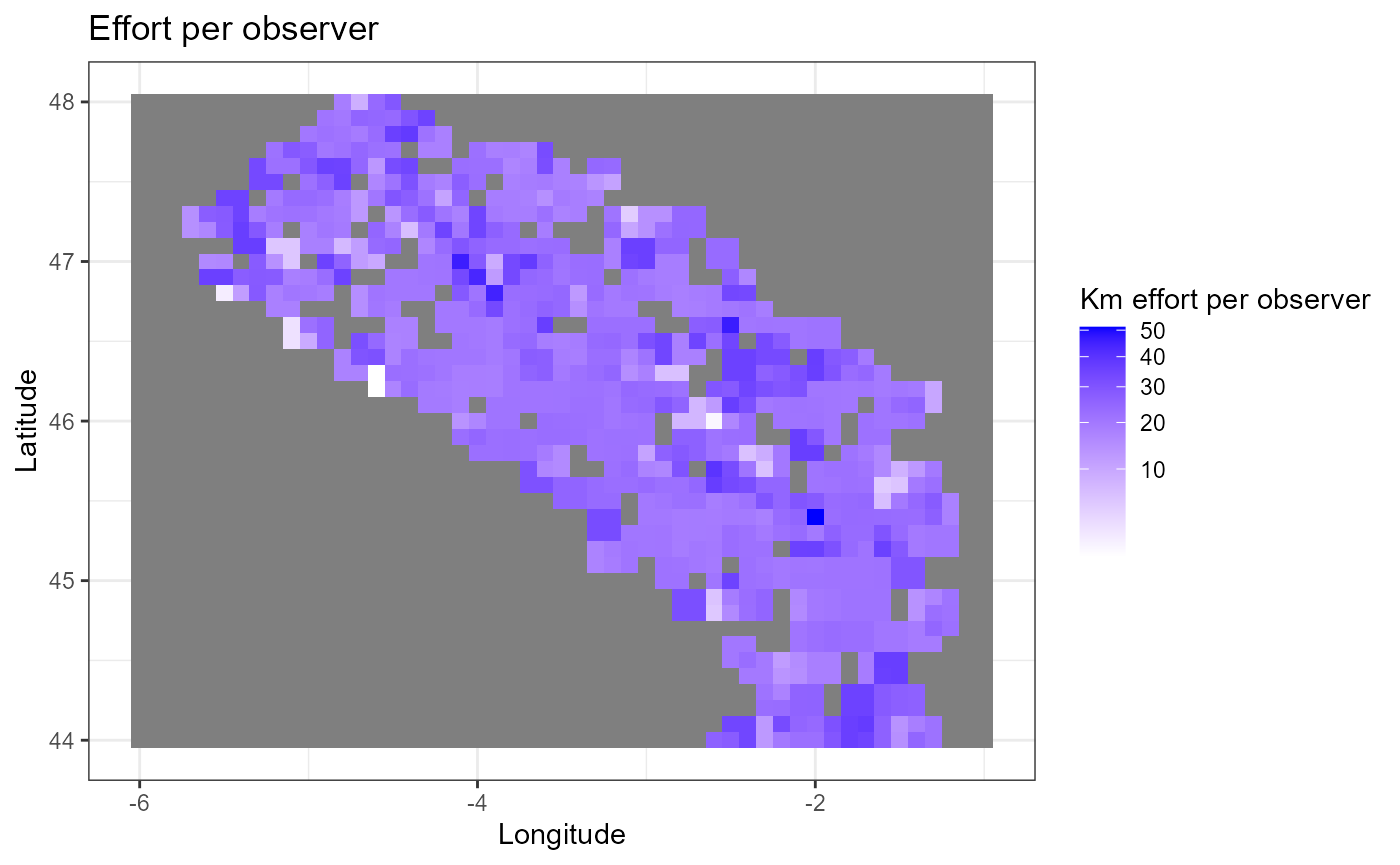
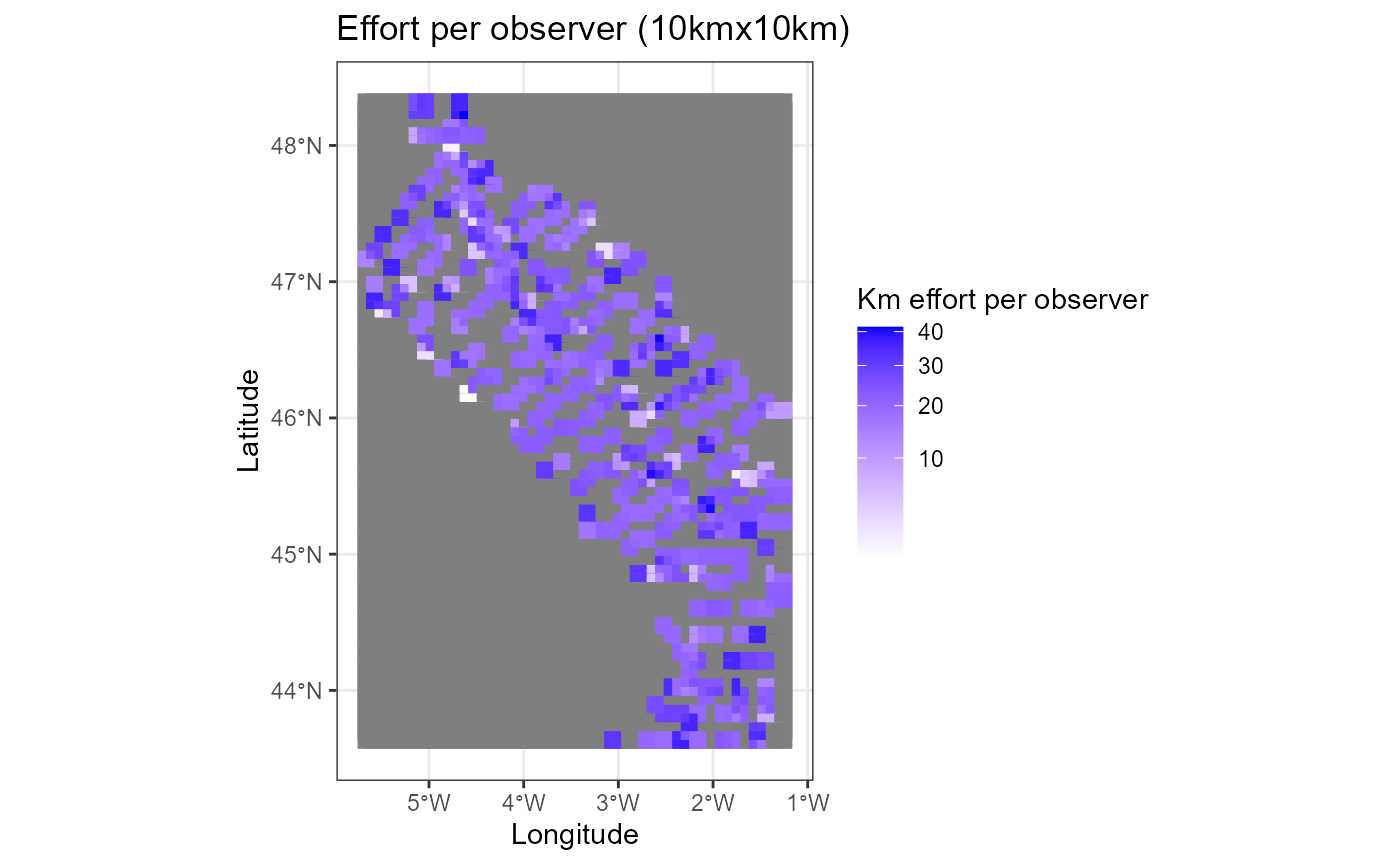
Add files via upload

diff --git a/articles/Processing_climatologies.html b/articles/Processing_climatologies.html
@@ -22,7 +22,7 @@
 
     <a class="navbar-brand me-2" href="../index.html">pelascope</a>
 
-    <small class="nav-text text-muted me-auto" data-bs-toggle="tooltip" data-bs-placement="bottom" title="">1.1</small>
+    <small class="nav-text text-muted me-auto" data-bs-toggle="tooltip" data-bs-placement="bottom" title="">1.2</small>
 
 
     <button class="navbar-toggler" type="button" data-bs-toggle="collapse" data-bs-target="#navbar" aria-controls="navbar" aria-expanded="false" aria-label="Toggle navigation">
@@ -97,7 +97,7 @@
 <span id="cb2-4"><a href="#cb2-4" aria-hidden="true" tabindex="-1"></a><span class="co"># copernicusmarine.login(username= &lt;"LOGIN"&gt; , password= &lt;"PASSWORD"&gt;) </span></span>
 <span id="cb2-5"><a href="#cb2-5" aria-hidden="true" tabindex="-1"></a></span>
 <span id="cb2-6"><a href="#cb2-6" aria-hidden="true" tabindex="-1"></a>copernicusmarine.subset(</span>
-<span id="cb2-7"><a href="#cb2-7" aria-hidden="true" tabindex="-1"></a>  dataset_id<span class="op">=</span><span class="st">"cmems_mod_ibi_phy_my_0.083deg-3D_P1D-m"</span>,</span>
+<span id="cb2-7"><a href="#cb2-7" aria-hidden="true" tabindex="-1"></a>  dataset_id<span class="op">=</span><span class="st">"cmems_mod_ibi_phy_anfc_0.027deg-3D_P1D-m"</span>,</span>
 <span id="cb2-8"><a href="#cb2-8" aria-hidden="true" tabindex="-1"></a>  variables<span class="op">=</span>[<span class="st">"bottomT"</span>, <span class="st">"mlotst"</span>, <span class="st">"so"</span>, <span class="st">"thetao"</span>, <span class="st">"uo"</span>, <span class="st">"vo"</span>, <span class="st">"zos"</span>],</span>
 <span id="cb2-9"><a href="#cb2-9" aria-hidden="true" tabindex="-1"></a>  minimum_longitude<span class="op">=-</span><span class="dv">6</span>,</span>
 <span id="cb2-10"><a href="#cb2-10" aria-hidden="true" tabindex="-1"></a>  maximum_longitude<span class="op">=</span><span class="dv">0</span>,</span>
@@ -110,29 +110,42 @@
 <span id="cb2-17"><a href="#cb2-17" aria-hidden="true" tabindex="-1"></a>  output_directory<span class="op">=</span> r.temp_file</span>
 <span id="cb2-18"><a href="#cb2-18" aria-hidden="true" tabindex="-1"></a>)</span>
 <span id="cb2-19"><a href="#cb2-19" aria-hidden="true" tabindex="-1"></a><span class="co">#&gt; </span></span>
-<span id="cb2-20"><a href="#cb2-20" aria-hidden="true" tabindex="-1"></a>  <span class="dv">0</span><span class="op">%|</span>          <span class="op">|</span> <span class="dv">0</span><span class="op">/</span><span class="dv">42</span> [<span class="dv">00</span>:<span class="dv">00</span><span class="op">&lt;</span>?, ?it<span class="op">/</span>s]</span>
-<span id="cb2-21"><a href="#cb2-21" aria-hidden="true" tabindex="-1"></a>  <span class="dv">2</span><span class="op">%|</span><span class="dv">2</span>         <span class="op">|</span> <span class="dv">1</span><span class="op">/</span><span class="dv">42</span> [<span class="dv">00</span>:<span class="dv">0</span><span class="er">2</span><span class="op">&lt;</span><span class="dv">0</span><span class="er">2</span>:<span class="dv">00</span>,  <span class="fl">2.93</span><span class="er">s</span><span class="op">/</span>it]</span>
-<span id="cb2-22"><a href="#cb2-22" aria-hidden="true" tabindex="-1"></a>  <span class="dv">7</span><span class="op">%|</span><span class="dv">7</span>         <span class="op">|</span> <span class="dv">3</span><span class="op">/</span><span class="dv">42</span> [<span class="dv">00</span>:<span class="dv">0</span><span class="er">3</span><span class="op">&lt;</span><span class="dv">00</span>:<span class="dv">34</span>,  <span class="fl">1.14</span><span class="er">it</span><span class="op">/</span>s]</span>
-<span id="cb2-23"><a href="#cb2-23" aria-hidden="true" tabindex="-1"></a> <span class="dv">12</span><span class="op">%|</span><span class="co">#1        | 5/42 [00:03&lt;00:17,  2.15it/s]</span></span>
-<span id="cb2-24"><a href="#cb2-24" aria-hidden="true" tabindex="-1"></a> <span class="dv">21</span><span class="op">%|</span><span class="co">##1       | 9/42 [00:04&lt;00:09,  3.45it/s]</span></span>
-<span id="cb2-25"><a href="#cb2-25" aria-hidden="true" tabindex="-1"></a> <span class="dv">31</span><span class="op">%|</span><span class="co">###       | 13/42 [00:08&lt;00:18,  1.56it/s]</span></span>
-<span id="cb2-26"><a href="#cb2-26" aria-hidden="true" tabindex="-1"></a> <span class="dv">36</span><span class="op">%|</span><span class="co">###5      | 15/42 [00:08&lt;00:13,  2.02it/s]</span></span>
-<span id="cb2-27"><a href="#cb2-27" aria-hidden="true" tabindex="-1"></a> <span class="dv">40</span><span class="op">%|</span><span class="co">####      | 17/42 [00:10&lt;00:15,  1.60it/s]</span></span>
-<span id="cb2-28"><a href="#cb2-28" aria-hidden="true" tabindex="-1"></a> <span class="dv">50</span><span class="op">%|</span><span class="co">#####     | 21/42 [00:10&lt;00:08,  2.42it/s]</span></span>
-<span id="cb2-29"><a href="#cb2-29" aria-hidden="true" tabindex="-1"></a> <span class="dv">60</span><span class="op">%|</span><span class="co">#####9    | 25/42 [00:11&lt;00:04,  3.46it/s]</span></span>
-<span id="cb2-30"><a href="#cb2-30" aria-hidden="true" tabindex="-1"></a> <span class="dv">64</span><span class="op">%|</span><span class="co">######4   | 27/42 [00:12&lt;00:06,  2.48it/s]</span></span>
-<span id="cb2-31"><a href="#cb2-31" aria-hidden="true" tabindex="-1"></a> <span class="dv">74</span><span class="op">%|</span><span class="co">#######3  | 31/42 [00:13&lt;00:03,  3.29it/s]</span></span>
-<span id="cb2-32"><a href="#cb2-32" aria-hidden="true" tabindex="-1"></a> <span class="dv">83</span><span class="op">%|</span><span class="co">########3 | 35/42 [00:14&lt;00:02,  3.04it/s]</span></span>
-<span id="cb2-33"><a href="#cb2-33" aria-hidden="true" tabindex="-1"></a> <span class="dv">93</span><span class="op">%|</span><span class="co">#########2| 39/42 [00:15&lt;00:00,  4.11it/s]</span></span>
-<span id="cb2-34"><a href="#cb2-34" aria-hidden="true" tabindex="-1"></a><span class="dv">100</span><span class="op">%|</span><span class="co">##########| 42/42 [00:15&lt;00:00,  2.75it/s]</span></span>
-<span id="cb2-35"><a href="#cb2-35" aria-hidden="true" tabindex="-1"></a><span class="co">#&gt; ResponseSubset(file_path=WindowsPath('C:/Users/gchero/AppData/Local/Temp/Rtmp6xly2c/cmems_mod_ibi_phy_my_0.083deg-3D_P1D-m_multi-vars_5.92W-0.00W_43.00N-49.00N_0.51m_2022-04-01-2023-05-31.nc'), output_directory=WindowsPath('C:/Users/gchero/AppData/Local/Temp/Rtmp6xly2c'), filename='cmems_mod_ibi_phy_my_0.083deg-3D_P1D-m_multi-vars_5.92W-0.00W_43.00N-49.00N_0.51m_2022-04-01-2023-05-31.nc', file_size=29.924053435114505, data_transfer_size=820.294351145038, variables=['bottomT', 'mlotst', 'so', 'thetao', 'uo', 'vo', 'zos'], coordinates_extent=[GeographicalExtent(minimum=-5.9166669845581055, maximum=-7.599999776175537e-07, unit='degrees_east', coordinate_id='longitude'), GeographicalExtent(minimum=43.0, maximum=49.0, unit='degrees_north', coordinate_id='latitude'), TimeExtent(minimum='2022-04-01T00:00:00+00:00', maximum='2023-05-31T00:00:00+00:00', unit='iso8601', coordinate_id='time'), GeographicalExtent(minimum=0.5057600140571594, maximum=0.5057600140571594, unit='m', coordinate_id='depth')], status='000', message='The request was successful.', file_status='DOWNLOADED')</span></span></code></pre></div>
+<span id="cb2-20"><a href="#cb2-20" aria-hidden="true" tabindex="-1"></a>  <span class="dv">0</span><span class="op">%|</span>          <span class="op">|</span> <span class="dv">0</span><span class="op">/</span><span class="dv">70</span> [<span class="dv">00</span>:<span class="dv">00</span><span class="op">&lt;</span>?, ?it<span class="op">/</span>s]</span>
+<span id="cb2-21"><a href="#cb2-21" aria-hidden="true" tabindex="-1"></a>  <span class="dv">1</span><span class="op">%|</span><span class="dv">1</span>         <span class="op">|</span> <span class="dv">1</span><span class="op">/</span><span class="dv">70</span> [<span class="dv">00</span>:<span class="dv">0</span><span class="er">1</span><span class="op">&lt;</span><span class="dv">0</span><span class="er">1</span>:<span class="dv">36</span>,  <span class="fl">1.40</span><span class="er">s</span><span class="op">/</span>it]</span>
+<span id="cb2-22"><a href="#cb2-22" aria-hidden="true" tabindex="-1"></a>  <span class="dv">4</span><span class="op">%|</span><span class="dv">4</span>         <span class="op">|</span> <span class="dv">3</span><span class="op">/</span><span class="dv">70</span> [<span class="dv">00</span>:<span class="dv">0</span><span class="er">1</span><span class="op">&lt;</span><span class="dv">00</span>:<span class="dv">27</span>,  <span class="fl">2.44</span><span class="er">it</span><span class="op">/</span>s]</span>
+<span id="cb2-23"><a href="#cb2-23" aria-hidden="true" tabindex="-1"></a>  <span class="dv">7</span><span class="op">%|</span><span class="dv">7</span>         <span class="op">|</span> <span class="dv">5</span><span class="op">/</span><span class="dv">70</span> [<span class="dv">00</span>:<span class="dv">0</span><span class="er">1</span><span class="op">&lt;</span><span class="dv">00</span>:<span class="dv">20</span>,  <span class="fl">3.14</span><span class="er">it</span><span class="op">/</span>s]</span>
+<span id="cb2-24"><a href="#cb2-24" aria-hidden="true" tabindex="-1"></a> <span class="dv">16</span><span class="op">%|</span><span class="co">#5        | 11/70 [00:03&lt;00:12,  4.56it/s]</span></span>
+<span id="cb2-25"><a href="#cb2-25" aria-hidden="true" tabindex="-1"></a> <span class="dv">19</span><span class="op">%|</span><span class="co">#8        | 13/70 [00:05&lt;00:24,  2.30it/s]</span></span>
+<span id="cb2-26"><a href="#cb2-26" aria-hidden="true" tabindex="-1"></a> <span class="dv">21</span><span class="op">%|</span><span class="co">##1       | 15/70 [00:05&lt;00:18,  2.99it/s]</span></span>
+<span id="cb2-27"><a href="#cb2-27" aria-hidden="true" tabindex="-1"></a> <span class="dv">24</span><span class="op">%|</span><span class="co">##4       | 17/70 [00:05&lt;00:17,  3.10it/s]</span></span>
+<span id="cb2-28"><a href="#cb2-28" aria-hidden="true" tabindex="-1"></a> <span class="dv">30</span><span class="op">%|</span><span class="co">###       | 21/70 [00:08&lt;00:23,  2.05it/s]</span></span>
+<span id="cb2-29"><a href="#cb2-29" aria-hidden="true" tabindex="-1"></a> <span class="dv">33</span><span class="op">%|</span><span class="co">###2      | 23/70 [00:10&lt;00:26,  1.76it/s]</span></span>
+<span id="cb2-30"><a href="#cb2-30" aria-hidden="true" tabindex="-1"></a> <span class="dv">36</span><span class="op">%|</span><span class="co">###5      | 25/70 [00:10&lt;00:19,  2.27it/s]</span></span>
+<span id="cb2-31"><a href="#cb2-31" aria-hidden="true" tabindex="-1"></a> <span class="dv">39</span><span class="op">%|</span><span class="co">###8      | 27/70 [00:11&lt;00:17,  2.48it/s]</span></span>
+<span id="cb2-32"><a href="#cb2-32" aria-hidden="true" tabindex="-1"></a> <span class="dv">41</span><span class="op">%|</span><span class="co">####1     | 29/70 [00:11&lt;00:14,  2.83it/s]</span></span>
+<span id="cb2-33"><a href="#cb2-33" aria-hidden="true" tabindex="-1"></a> <span class="dv">44</span><span class="op">%|</span><span class="co">####4     | 31/70 [00:11&lt;00:10,  3.72it/s]</span></span>
+<span id="cb2-34"><a href="#cb2-34" aria-hidden="true" tabindex="-1"></a> <span class="dv">47</span><span class="op">%|</span><span class="co">####7     | 33/70 [00:15&lt;00:25,  1.46it/s]</span></span>
+<span id="cb2-35"><a href="#cb2-35" aria-hidden="true" tabindex="-1"></a> <span class="dv">50</span><span class="op">%|</span><span class="co">#####     | 35/70 [00:16&lt;00:22,  1.54it/s]</span></span>
+<span id="cb2-36"><a href="#cb2-36" aria-hidden="true" tabindex="-1"></a> <span class="dv">53</span><span class="op">%|</span><span class="co">#####2    | 37/70 [00:16&lt;00:17,  1.90it/s]</span></span>
+<span id="cb2-37"><a href="#cb2-37" aria-hidden="true" tabindex="-1"></a> <span class="dv">59</span><span class="op">%|</span><span class="co">#####8    | 41/70 [00:17&lt;00:11,  2.55it/s]</span></span>
+<span id="cb2-38"><a href="#cb2-38" aria-hidden="true" tabindex="-1"></a> <span class="dv">61</span><span class="op">%|</span><span class="co">######1   | 43/70 [00:18&lt;00:12,  2.14it/s]</span></span>
+<span id="cb2-39"><a href="#cb2-39" aria-hidden="true" tabindex="-1"></a> <span class="dv">67</span><span class="op">%|</span><span class="co">######7   | 47/70 [00:19&lt;00:07,  2.95it/s]</span></span>
+<span id="cb2-40"><a href="#cb2-40" aria-hidden="true" tabindex="-1"></a> <span class="dv">70</span><span class="op">%|</span><span class="co">#######   | 49/70 [00:20&lt;00:08,  2.57it/s]</span></span>
+<span id="cb2-41"><a href="#cb2-41" aria-hidden="true" tabindex="-1"></a> <span class="dv">73</span><span class="op">%|</span><span class="co">#######2  | 51/70 [00:20&lt;00:06,  3.12it/s]</span></span>
+<span id="cb2-42"><a href="#cb2-42" aria-hidden="true" tabindex="-1"></a> <span class="dv">76</span><span class="op">%|</span><span class="co">#######5  | 53/70 [00:21&lt;00:04,  3.90it/s]</span></span>
+<span id="cb2-43"><a href="#cb2-43" aria-hidden="true" tabindex="-1"></a> <span class="dv">79</span><span class="op">%|</span><span class="co">#######8  | 55/70 [00:21&lt;00:03,  4.86it/s]</span></span>
+<span id="cb2-44"><a href="#cb2-44" aria-hidden="true" tabindex="-1"></a> <span class="dv">84</span><span class="op">%|</span><span class="co">########4 | 59/70 [00:23&lt;00:03,  3.11it/s]</span></span>
+<span id="cb2-45"><a href="#cb2-45" aria-hidden="true" tabindex="-1"></a> <span class="dv">93</span><span class="op">%|</span><span class="co">#########2| 65/70 [00:25&lt;00:01,  2.85it/s]</span></span>
+<span id="cb2-46"><a href="#cb2-46" aria-hidden="true" tabindex="-1"></a> <span class="dv">96</span><span class="op">%|</span><span class="co">#########5| 67/70 [00:28&lt;00:01,  1.82it/s]</span></span>
+<span id="cb2-47"><a href="#cb2-47" aria-hidden="true" tabindex="-1"></a><span class="dv">100</span><span class="op">%|</span><span class="co">##########| 70/70 [00:28&lt;00:00,  2.47it/s]</span></span>
+<span id="cb2-48"><a href="#cb2-48" aria-hidden="true" tabindex="-1"></a><span class="co">#&gt; ResponseSubset(file_path=WindowsPath('C:/Users/gchero/AppData/Local/Temp/RtmpKQL5gk/cmems_mod_ibi_phy_anfc_0.027deg-3D_P1D-m_multi-vars_6.00W-0.03W_43.03N-49.00N_0.49m_2022-11-23-2023-05-31.nc'), output_directory=WindowsPath('C:/Users/gchero/AppData/Local/Temp/RtmpKQL5gk'), filename='cmems_mod_ibi_phy_anfc_0.027deg-3D_P1D-m_multi-vars_6.00W-0.03W_43.03N-49.00N_0.49m_2022-11-23-2023-05-31.nc', file_size=118.43376335877863, data_transfer_size=759.4171603053434, variables=['bottomT', 'mlotst', 'so', 'thetao', 'uo', 'vo', 'zos'], coordinates_extent=[GeographicalExtent(minimum=-5.999106370000001, maximum=-0.026700920000000905, unit='degrees_east', coordinate_id='longitude'), GeographicalExtent(minimum=43.02698567, maximum=48.99939112, unit='degrees_north', coordinate_id='latitude'), TimeExtent(minimum='2022-11-23T00:00:00+00:00', maximum='2023-05-31T00:00:00+00:00', unit='iso8601', coordinate_id='time'), GeographicalExtent(minimum=0.4940253794193268, maximum=0.4940253794193268, unit='m', coordinate_id='depth')], status='000', message='The request was successful.', file_status='DOWNLOADED')</span></span></code></pre></div>
 </div>
 <p>The function import a ‘.nc’ files with all the climatologies downloaded in the area for the complete period.</p>
 <div class="cell">
 <div class="sourceCode cell-code" id="cb3"><pre class="downlit sourceCode r">
 <code class="sourceCode R"><span><span class="va">file_nc</span> <span class="op">&lt;-</span> <span class="fu"><a href="https://rdrr.io/r/base/list.files.html" class="external-link">list.files</a></span><span class="op">(</span><span class="va">temp_file</span>, full.names <span class="op">=</span> <span class="cn">TRUE</span>, pattern<span class="op">=</span><span class="st">".nc"</span><span class="op">)</span></span>
 <span><span class="va">file_nc</span></span>
-<span><span class="co">#&gt; [1] "C:\\Users\\gchero\\AppData\\Local\\Temp\\Rtmp6xly2c/cmems_mod_ibi_phy_my_0.083deg-3D_P1D-m_multi-vars_5.92W-0.00W_43.00N-49.00N_0.51m_2022-04-01-2023-05-31.nc"</span></span></code></pre></div>
+<span><span class="co">#&gt; [1] "C:\\Users\\gchero\\AppData\\Local\\Temp\\RtmpKQL5gk/cmems_mod_ibi_phy_anfc_0.027deg-3D_P1D-m_multi-vars_6.00W-0.03W_43.03N-49.00N_0.49m_2022-11-23-2023-05-31.nc"</span></span></code></pre></div>
 </div>
 </section><section class="section level2"><h2 id="manipulate-climatologies">2 - Manipulate climatologies<a class="anchor" aria-label="anchor" href="#manipulate-climatologies"></a>
 </h2>
@@ -282,14 +295,14 @@
 <span></span>
 <span><span class="va">rast_final</span></span>
 <span><span class="co">#&gt; class       : SpatRaster </span></span>
-<span><span class="co">#&gt; size        : 73, 72, 12  (nrow, ncol, nlyr)</span></span>
-<span><span class="co">#&gt; resolution  : 0.08333333, 0.08333333  (x, y)</span></span>
-<span><span class="co">#&gt; extent      : -5.958334, 0.0416659, 42.95833, 49.04167  (xmin, xmax, ymin, ymax)</span></span>
+<span><span class="co">#&gt; size        : 216, 216, 12  (nrow, ncol, nlyr)</span></span>
+<span><span class="co">#&gt; resolution  : 0.02777863, 0.02777863  (x, y)</span></span>
+<span><span class="co">#&gt; extent      : -6.012996, -0.01281161, 43.0131, 49.01328  (xmin, xmax, ymin, ymax)</span></span>
 <span><span class="co">#&gt; coord. ref. : lon/lat WGS 84 (CRS84) (OGC:CRS84) </span></span>
 <span><span class="co">#&gt; source(s)   : memory</span></span>
-<span><span class="co">#&gt; names       : BST_mean,      BST_sd,  MLD_mean,      MLD_sd, Salin~_mean,  Salinity_sd, ... </span></span>
-<span><span class="co">#&gt; min values  : 10.92171, 0.006772811,  4.551583,  0.03094085,  0.09632164, 0.0008939617, ... </span></span>
-<span><span class="co">#&gt; max values  : 19.57945, 1.050573744, 72.248358, 32.60082145, 35.82961366, 3.4587316578, ... </span></span>
+<span><span class="co">#&gt; names       : BST_mean,     BST_sd,  MLD_mean,      MLD_sd, Salin~_mean, Salinity_sd, ... </span></span>
+<span><span class="co">#&gt; min values  : 10.98626, 0.00958222,  4.541906,  0.04205937,  0.08774099, 0.000395079, ... </span></span>
+<span><span class="co">#&gt; max values  : 18.51610, 1.30521572, 85.219326, 33.82404881, 35.62377494, 3.878500275, ... </span></span>
 <span><span class="co">#&gt; time (days) : 2023-05-01</span></span></code></pre></div>
 </div>
 </section><section class="section level2"><h2 id="check-output">3 - Check output<a class="anchor" aria-label="anchor" href="#check-output"></a>
@@ -298,8 +311,8 @@
 <div class="sourceCode cell-code" id="cb6"><pre class="downlit sourceCode r">
 <code class="sourceCode R"><span><span class="va">file_tif</span> <span class="op">&lt;-</span> <span class="fu"><a href="https://rdrr.io/r/base/list.files.html" class="external-link">list.files</a></span><span class="op">(</span><span class="va">temp_file</span>, pattern <span class="op">=</span> <span class="st">'.tif'</span>, full.names <span class="op">=</span> <span class="cn">TRUE</span><span class="op">)</span></span>
 <span><span class="va">file_tif</span></span>
-<span><span class="co">#&gt; [1] "C:\\Users\\gchero\\AppData\\Local\\Temp\\Rtmp6xly2c/2023_April.tif"</span></span>
-<span><span class="co">#&gt; [2] "C:\\Users\\gchero\\AppData\\Local\\Temp\\Rtmp6xly2c/2023_May.tif"</span></span></code></pre></div>
+<span><span class="co">#&gt; [1] "C:\\Users\\gchero\\AppData\\Local\\Temp\\RtmpKQL5gk/2023_April.tif"</span></span>
+<span><span class="co">#&gt; [2] "C:\\Users\\gchero\\AppData\\Local\\Temp\\RtmpKQL5gk/2023_May.tif"</span></span></code></pre></div>
 </div>
 <div class="cell">
 <div class="sourceCode cell-code" id="cb7"><pre class="downlit sourceCode r">
@@ -460,9 +473,9 @@
 <div class="sourceCode cell-code" id="cb14"><pre class="downlit sourceCode r">
 <code class="sourceCode R"><span><span class="fu"><a href="https://rdrr.io/r/base/unlink.html" class="external-link">unlink</a></span><span class="op">(</span><span class="va">temp_file</span>, recursive <span class="op">=</span> <span class="cn">TRUE</span>, force <span class="op">=</span> <span class="cn">TRUE</span><span class="op">)</span></span>
 <span><span class="fu"><a href="https://rdrr.io/r/base/list.files.html" class="external-link">list.files</a></span><span class="op">(</span><span class="va">temp_file</span><span class="op">)</span></span>
-<span><span class="co">#&gt; [1] "cmems_mod_ibi_phy_my_0.083deg-3D_P1D-m_multi-vars_5.92W-0.00W_43.00N-49.00N_0.51m_2022-04-01-2023-05-31.nc"</span></span>
-<span><span class="co">#&gt; [2] "file245846cc34c8"                                                                                          </span></span>
-<span><span class="co">#&gt; [3] "Rf245836c97098"</span></span></code></pre></div>
+<span><span class="co">#&gt; [1] "cmems_mod_ibi_phy_anfc_0.027deg-3D_P1D-m_multi-vars_6.00W-0.03W_43.03N-49.00N_0.49m_2022-11-23-2023-05-31.nc"</span></span>
+<span><span class="co">#&gt; [2] "fileabc70bd36fa"                                                                                             </span></span>
+<span><span class="co">#&gt; [3] "Rfabc6ca36438"</span></span></code></pre></div>
 </div>
 </section><script id="quarto-html-after-body" type="application/javascript">
 window.document.addEventListener("DOMContentLoaded", function (event) {

diff --git a/articles/effort-preparation.html b/articles/effort-preparation.html
@@ -20,7 +20,7 @@
 
     <a class="navbar-brand me-2" href="../index.html">pelascope</a>
 
-    <small class="nav-text text-muted me-auto" data-bs-toggle="tooltip" data-bs-placement="bottom" title="">1.1</small>
+    <small class="nav-text text-muted me-auto" data-bs-toggle="tooltip" data-bs-placement="bottom" title="">1.2</small>
 
 
     <button class="navbar-toggler" type="button" data-bs-toggle="collapse" data-bs-target="#navbar" aria-controls="navbar" aria-expanded="false" aria-label="Toggle navigation">
@@ -2596,44 +2596,44 @@
 <p><img src="effort-preparation_files/figure-html/example-descriptive_stats_effort-3.png" width="700"></p>
 <pre><code><span><span class="co">#&gt; </span></span>
 <span><span class="co">#&gt; $gpkg_general_blocking</span></span>
-<span><span class="co">#&gt; Simple feature collection with 2091 features and 1 field</span></span>
-<span><span class="co">#&gt; Geometry type: POINT</span></span>
+<span><span class="co">#&gt; Simple feature collection with 3800 features and 1 field</span></span>
+<span><span class="co">#&gt; Geometry type: POLYGON</span></span>
 <span><span class="co">#&gt; Dimension:     XY</span></span>
-<span><span class="co">#&gt; Bounding box:  xmin: -6 ymin: 44 xmax: -1 ymax: 48</span></span>
+<span><span class="co">#&gt; Bounding box:  xmin: -5.749218 ymin: 43.57561 xmax: -1.16781 ymax: 48.37816</span></span>
 <span><span class="co">#&gt; Geodetic CRS:  WGS 84</span></span>
 <span><span class="co">#&gt; First 10 features:</span></span>
-<span><span class="co">#&gt;    Mean_value        geometry</span></span>
-<span><span class="co">#&gt; 1          NA   POINT (-6 44)</span></span>
-<span><span class="co">#&gt; 2          NA POINT (-5.9 44)</span></span>
-<span><span class="co">#&gt; 3          NA POINT (-5.8 44)</span></span>
-<span><span class="co">#&gt; 4          NA POINT (-5.7 44)</span></span>
-<span><span class="co">#&gt; 5          NA POINT (-5.6 44)</span></span>
-<span><span class="co">#&gt; 6          NA POINT (-5.5 44)</span></span>
-<span><span class="co">#&gt; 7          NA POINT (-5.4 44)</span></span>
-<span><span class="co">#&gt; 8          NA POINT (-5.3 44)</span></span>
-<span><span class="co">#&gt; 9          NA POINT (-5.2 44)</span></span>
-<span><span class="co">#&gt; 10         NA POINT (-5.1 44)</span></span>
+<span><span class="co">#&gt;    Mean_value                       geometry</span></span>
+<span><span class="co">#&gt; 1          NA POLYGON ((-5.569555 43.7056...</span></span>
+<span><span class="co">#&gt; 2          NA POLYGON ((-5.479723 43.7056...</span></span>
+<span><span class="co">#&gt; 3          NA POLYGON ((-5.389892 43.7056...</span></span>
+<span><span class="co">#&gt; 4          NA POLYGON ((-5.30006 43.70563...</span></span>
+<span><span class="co">#&gt; 5          NA POLYGON ((-5.210229 43.7056...</span></span>
+<span><span class="co">#&gt; 6          NA POLYGON ((-5.120397 43.7056...</span></span>
+<span><span class="co">#&gt; 7          NA POLYGON ((-5.030566 43.7056...</span></span>
+<span><span class="co">#&gt; 8          NA POLYGON ((-4.940734 43.7056...</span></span>
+<span><span class="co">#&gt; 9          NA POLYGON ((-4.850903 43.7056...</span></span>
+<span><span class="co">#&gt; 10         NA POLYGON ((-4.761071 43.7056...</span></span>
 <span><span class="co">#&gt; </span></span>
 <span><span class="co">#&gt; $blocking_per_species</span></span>
 <span><span class="co">#&gt; $blocking_per_species$ind.DELDEL</span></span>
 <span><span class="co">#&gt; $blocking_per_species$ind.DELDEL$data</span></span>
-<span><span class="co">#&gt; Simple feature collection with 2091 features and 1 field</span></span>
-<span><span class="co">#&gt; Geometry type: POINT</span></span>
+<span><span class="co">#&gt; Simple feature collection with 3800 features and 1 field</span></span>
+<span><span class="co">#&gt; Geometry type: POLYGON</span></span>
 <span><span class="co">#&gt; Dimension:     XY</span></span>
-<span><span class="co">#&gt; Bounding box:  xmin: -6 ymin: 44 xmax: -1 ymax: 48</span></span>
+<span><span class="co">#&gt; Bounding box:  xmin: -5.749218 ymin: 43.57561 xmax: -1.16781 ymax: 48.37816</span></span>
 <span><span class="co">#&gt; Geodetic CRS:  WGS 84</span></span>
 <span><span class="co">#&gt; First 10 features:</span></span>
-<span><span class="co">#&gt;    Mean_value        geometry</span></span>
-<span><span class="co">#&gt; 1          NA   POINT (-6 44)</span></span>
-<span><span class="co">#&gt; 2          NA POINT (-5.9 44)</span></span>
-<span><span class="co">#&gt; 3          NA POINT (-5.8 44)</span></span>
-<span><span class="co">#&gt; 4          NA POINT (-5.7 44)</span></span>
-<span><span class="co">#&gt; 5          NA POINT (-5.6 44)</span></span>
-<span><span class="co">#&gt; 6          NA POINT (-5.5 44)</span></span>
-<span><span class="co">#&gt; 7          NA POINT (-5.4 44)</span></span>
-<span><span class="co">#&gt; 8          NA POINT (-5.3 44)</span></span>
-<span><span class="co">#&gt; 9          NA POINT (-5.2 44)</span></span>
-<span><span class="co">#&gt; 10         NA POINT (-5.1 44)</span></span>
+<span><span class="co">#&gt;    Mean_value                       geometry</span></span>
+<span><span class="co">#&gt; 1          NA POLYGON ((-5.569555 43.7056...</span></span>
+<span><span class="co">#&gt; 2          NA POLYGON ((-5.479723 43.7056...</span></span>
+<span><span class="co">#&gt; 3          NA POLYGON ((-5.389892 43.7056...</span></span>
+<span><span class="co">#&gt; 4          NA POLYGON ((-5.30006 43.70563...</span></span>
+<span><span class="co">#&gt; 5          NA POLYGON ((-5.210229 43.7056...</span></span>
+<span><span class="co">#&gt; 6          NA POLYGON ((-5.120397 43.7056...</span></span>
+<span><span class="co">#&gt; 7          NA POLYGON ((-5.030566 43.7056...</span></span>
+<span><span class="co">#&gt; 8          NA POLYGON ((-4.940734 43.7056...</span></span>
+<span><span class="co">#&gt; 9          NA POLYGON ((-4.850903 43.7056...</span></span>
+<span><span class="co">#&gt; 10         NA POLYGON ((-4.761071 43.7056...</span></span>
 <span><span class="co">#&gt; </span></span>
 <span><span class="co">#&gt; $blocking_per_species$ind.DELDEL$map</span></span></code></pre>
 <p><img src="effort-preparation_files/figure-html/example-descriptive_stats_effort-4.png" width="700"></p>
@@ -2886,44 +2886,44 @@
 <p><img src="effort-preparation_files/figure-html/example-descriptive_stats_effort-7.png" width="700"></p>
 <pre><code><span><span class="co">#&gt; </span></span>
 <span><span class="co">#&gt; $gpkg_general_blocking</span></span>
-<span><span class="co">#&gt; Simple feature collection with 2091 features and 1 field</span></span>
-<span><span class="co">#&gt; Geometry type: POINT</span></span>
+<span><span class="co">#&gt; Simple feature collection with 3800 features and 1 field</span></span>
+<span><span class="co">#&gt; Geometry type: POLYGON</span></span>
 <span><span class="co">#&gt; Dimension:     XY</span></span>
-<span><span class="co">#&gt; Bounding box:  xmin: -6 ymin: 44 xmax: -1 ymax: 48</span></span>
+<span><span class="co">#&gt; Bounding box:  xmin: -5.749218 ymin: 43.57561 xmax: -1.16781 ymax: 48.37816</span></span>
 <span><span class="co">#&gt; Geodetic CRS:  WGS 84</span></span>
 <span><span class="co">#&gt; First 10 features:</span></span>
-<span><span class="co">#&gt;    Mean_value        geometry</span></span>
-<span><span class="co">#&gt; 1          NA   POINT (-6 44)</span></span>
-<span><span class="co">#&gt; 2          NA POINT (-5.9 44)</span></span>
-<span><span class="co">#&gt; 3          NA POINT (-5.8 44)</span></span>
-<span><span class="co">#&gt; 4          NA POINT (-5.7 44)</span></span>
-<span><span class="co">#&gt; 5          NA POINT (-5.6 44)</span></span>
-<span><span class="co">#&gt; 6          NA POINT (-5.5 44)</span></span>
-<span><span class="co">#&gt; 7          NA POINT (-5.4 44)</span></span>
-<span><span class="co">#&gt; 8          NA POINT (-5.3 44)</span></span>
-<span><span class="co">#&gt; 9          NA POINT (-5.2 44)</span></span>
-<span><span class="co">#&gt; 10         NA POINT (-5.1 44)</span></span>
+<span><span class="co">#&gt;    Mean_value                       geometry</span></span>
+<span><span class="co">#&gt; 1          NA POLYGON ((-5.569555 43.7056...</span></span>
+<span><span class="co">#&gt; 2          NA POLYGON ((-5.479723 43.7056...</span></span>
+<span><span class="co">#&gt; 3          NA POLYGON ((-5.389892 43.7056...</span></span>
+<span><span class="co">#&gt; 4          NA POLYGON ((-5.30006 43.70563...</span></span>
+<span><span class="co">#&gt; 5          NA POLYGON ((-5.210229 43.7056...</span></span>
+<span><span class="co">#&gt; 6          NA POLYGON ((-5.120397 43.7056...</span></span>
+<span><span class="co">#&gt; 7          NA POLYGON ((-5.030566 43.7056...</span></span>
+<span><span class="co">#&gt; 8          NA POLYGON ((-4.940734 43.7056...</span></span>
+<span><span class="co">#&gt; 9          NA POLYGON ((-4.850903 43.7056...</span></span>
+<span><span class="co">#&gt; 10         NA POLYGON ((-4.761071 43.7056...</span></span>
 <span><span class="co">#&gt; </span></span>
 <span><span class="co">#&gt; $blocking_per_species</span></span>
 <span><span class="co">#&gt; $blocking_per_species$ind.DELDEL</span></span>
 <span><span class="co">#&gt; $blocking_per_species$ind.DELDEL$data</span></span>
-<span><span class="co">#&gt; Simple feature collection with 2091 features and 1 field</span></span>
-<span><span class="co">#&gt; Geometry type: POINT</span></span>
+<span><span class="co">#&gt; Simple feature collection with 3800 features and 1 field</span></span>
+<span><span class="co">#&gt; Geometry type: POLYGON</span></span>
 <span><span class="co">#&gt; Dimension:     XY</span></span>
-<span><span class="co">#&gt; Bounding box:  xmin: -6 ymin: 44 xmax: -1 ymax: 48</span></span>
+<span><span class="co">#&gt; Bounding box:  xmin: -5.749218 ymin: 43.57561 xmax: -1.16781 ymax: 48.37816</span></span>
 <span><span class="co">#&gt; Geodetic CRS:  WGS 84</span></span>
 <span><span class="co">#&gt; First 10 features:</span></span>
-<span><span class="co">#&gt;    Mean_value        geometry</span></span>
-<span><span class="co">#&gt; 1          NA   POINT (-6 44)</span></span>
-<span><span class="co">#&gt; 2          NA POINT (-5.9 44)</span></span>
-<span><span class="co">#&gt; 3          NA POINT (-5.8 44)</span></span>
-<span><span class="co">#&gt; 4          NA POINT (-5.7 44)</span></span>
-<span><span class="co">#&gt; 5          NA POINT (-5.6 44)</span></span>
-<span><span class="co">#&gt; 6          NA POINT (-5.5 44)</span></span>
-<span><span class="co">#&gt; 7          NA POINT (-5.4 44)</span></span>
-<span><span class="co">#&gt; 8          NA POINT (-5.3 44)</span></span>
-<span><span class="co">#&gt; 9          NA POINT (-5.2 44)</span></span>
-<span><span class="co">#&gt; 10         NA POINT (-5.1 44)</span></span>
+<span><span class="co">#&gt;    Mean_value                       geometry</span></span>
+<span><span class="co">#&gt; 1          NA POLYGON ((-5.569555 43.7056...</span></span>
+<span><span class="co">#&gt; 2          NA POLYGON ((-5.479723 43.7056...</span></span>
+<span><span class="co">#&gt; 3          NA POLYGON ((-5.389892 43.7056...</span></span>
+<span><span class="co">#&gt; 4          NA POLYGON ((-5.30006 43.70563...</span></span>
+<span><span class="co">#&gt; 5          NA POLYGON ((-5.210229 43.7056...</span></span>
+<span><span class="co">#&gt; 6          NA POLYGON ((-5.120397 43.7056...</span></span>
+<span><span class="co">#&gt; 7          NA POLYGON ((-5.030566 43.7056...</span></span>
+<span><span class="co">#&gt; 8          NA POLYGON ((-4.940734 43.7056...</span></span>
+<span><span class="co">#&gt; 9          NA POLYGON ((-4.850903 43.7056...</span></span>
+<span><span class="co">#&gt; 10         NA POLYGON ((-4.761071 43.7056...</span></span>
 <span><span class="co">#&gt; </span></span>
 <span><span class="co">#&gt; $blocking_per_species$ind.DELDEL$map</span></span></code></pre>
 <p><img src="effort-preparation_files/figure-html/example-descriptive_stats_effort-8.png" width="700"></p>
@@ -2931,23 +2931,23 @@
 <span><span class="co">#&gt; </span></span>
 <span><span class="co">#&gt; $blocking_per_species$ind.FULGLA</span></span>
 <span><span class="co">#&gt; $blocking_per_species$ind.FULGLA$data</span></span>
-<span><span class="co">#&gt; Simple feature collection with 2091 features and 1 field</span></span>
-<span><span class="co">#&gt; Geometry type: POINT</span></span>
+<span><span class="co">#&gt; Simple feature collection with 3800 features and 1 field</span></span>
+<span><span class="co">#&gt; Geometry type: POLYGON</span></span>
 <span><span class="co">#&gt; Dimension:     XY</span></span>
-<span><span class="co">#&gt; Bounding box:  xmin: -6 ymin: 44 xmax: -1 ymax: 48</span></span>
+<span><span class="co">#&gt; Bounding box:  xmin: -5.749218 ymin: 43.57561 xmax: -1.16781 ymax: 48.37816</span></span>
 <span><span class="co">#&gt; Geodetic CRS:  WGS 84</span></span>
 <span><span class="co">#&gt; First 10 features:</span></span>
-<span><span class="co">#&gt;    Mean_value        geometry</span></span>
-<span><span class="co">#&gt; 1          NA   POINT (-6 44)</span></span>
-<span><span class="co">#&gt; 2          NA POINT (-5.9 44)</span></span>
-<span><span class="co">#&gt; 3          NA POINT (-5.8 44)</span></span>
-<span><span class="co">#&gt; 4          NA POINT (-5.7 44)</span></span>
-<span><span class="co">#&gt; 5          NA POINT (-5.6 44)</span></span>
-<span><span class="co">#&gt; 6          NA POINT (-5.5 44)</span></span>
-<span><span class="co">#&gt; 7          NA POINT (-5.4 44)</span></span>
-<span><span class="co">#&gt; 8          NA POINT (-5.3 44)</span></span>
-<span><span class="co">#&gt; 9          NA POINT (-5.2 44)</span></span>
-<span><span class="co">#&gt; 10         NA POINT (-5.1 44)</span></span>
+<span><span class="co">#&gt;    Mean_value                       geometry</span></span>
+<span><span class="co">#&gt; 1          NA POLYGON ((-5.569555 43.7056...</span></span>
+<span><span class="co">#&gt; 2          NA POLYGON ((-5.479723 43.7056...</span></span>
+<span><span class="co">#&gt; 3          NA POLYGON ((-5.389892 43.7056...</span></span>
+<span><span class="co">#&gt; 4          NA POLYGON ((-5.30006 43.70563...</span></span>
+<span><span class="co">#&gt; 5          NA POLYGON ((-5.210229 43.7056...</span></span>
+<span><span class="co">#&gt; 6          NA POLYGON ((-5.120397 43.7056...</span></span>
+<span><span class="co">#&gt; 7          NA POLYGON ((-5.030566 43.7056...</span></span>
+<span><span class="co">#&gt; 8          NA POLYGON ((-4.940734 43.7056...</span></span>
+<span><span class="co">#&gt; 9          NA POLYGON ((-4.850903 43.7056...</span></span>
+<span><span class="co">#&gt; 10         NA POLYGON ((-4.761071 43.7056...</span></span>
 <span><span class="co">#&gt; </span></span>
 <span><span class="co">#&gt; $blocking_per_species$ind.FULGLA$map</span></span></code></pre>
 <p><img src="effort-preparation_files/figure-html/example-descriptive_stats_effort-9.png" width="700"></p>

diff --git a/articles/calculation.html b/articles/calculation.html
@@ -20,7 +20,7 @@
 
     <a class="navbar-brand me-2" href="../index.html">pelascope</a>
 
-    <small class="nav-text text-muted me-auto" data-bs-toggle="tooltip" data-bs-placement="bottom" title="">1.1</small>
+    <small class="nav-text text-muted me-auto" data-bs-toggle="tooltip" data-bs-placement="bottom" title="">1.2</small>
 
 
     <button class="navbar-toggler" type="button" data-bs-toggle="collapse" data-bs-target="#navbar" aria-controls="navbar" aria-expanded="false" aria-label="Toggle navigation">

diff --git a/articles/esw-calculation.html b/articles/esw-calculation.html
@@ -20,7 +20,7 @@
 
     <a class="navbar-brand me-2" href="../index.html">pelascope</a>
 
-    <small class="nav-text text-muted me-auto" data-bs-toggle="tooltip" data-bs-placement="bottom" title="">1.1</small>
+    <small class="nav-text text-muted me-auto" data-bs-toggle="tooltip" data-bs-placement="bottom" title="">1.2</small>
 
 
     <button class="navbar-toggler" type="button" data-bs-toggle="collapse" data-bs-target="#navbar" aria-controls="navbar" aria-expanded="false" aria-label="Toggle navigation">

diff --git a/articles/sightings-preparation.html b/articles/sightings-preparation.html
@@ -20,7 +20,7 @@
 
     <a class="navbar-brand me-2" href="../index.html">pelascope</a>
 
-    <small class="nav-text text-muted me-auto" data-bs-toggle="tooltip" data-bs-placement="bottom" title="">1.1</small>
+    <small class="nav-text text-muted me-auto" data-bs-toggle="tooltip" data-bs-placement="bottom" title="">1.2</small>
 
 
     <button class="navbar-toggler" type="button" data-bs-toggle="collapse" data-bs-target="#navbar" aria-controls="navbar" aria-expanded="false" aria-label="Toggle navigation">

diff --git a/articles/index.html b/articles/index.html
@@ -7,7 +7,7 @@
 
     <a class="navbar-brand me-2" href="../index.html">pelascope</a>
 
-    <small class="nav-text text-muted me-auto" data-bs-toggle="tooltip" data-bs-placement="bottom" title="">1.1</small>
+    <small class="nav-text text-muted me-auto" data-bs-toggle="tooltip" data-bs-placement="bottom" title="">1.2</small>
 
 
     <button class="navbar-toggler" type="button" data-bs-toggle="collapse" data-bs-target="#navbar" aria-controls="navbar" aria-expanded="false" aria-label="Toggle navigation">
